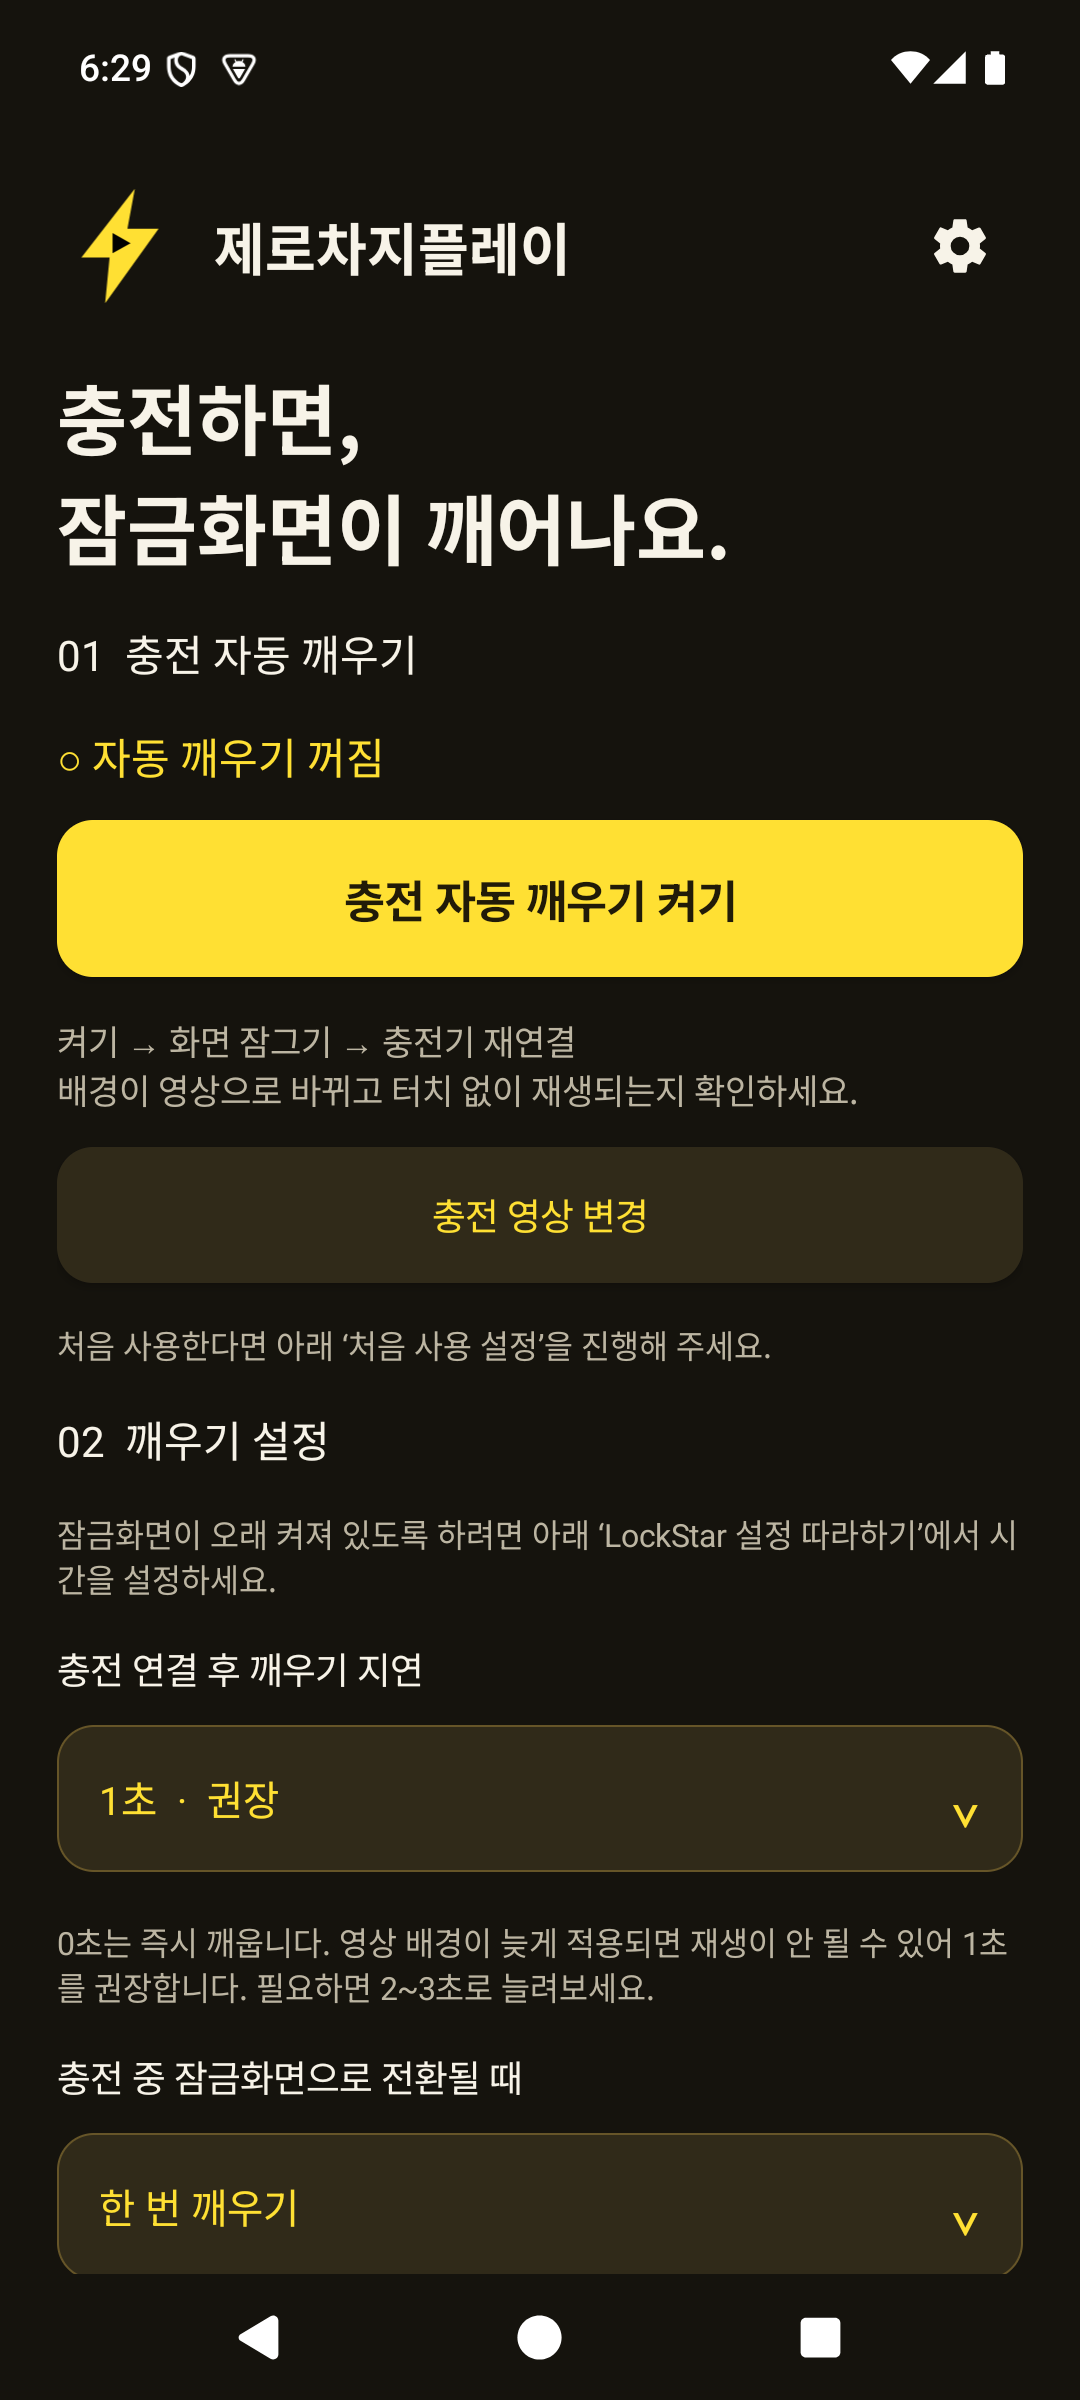
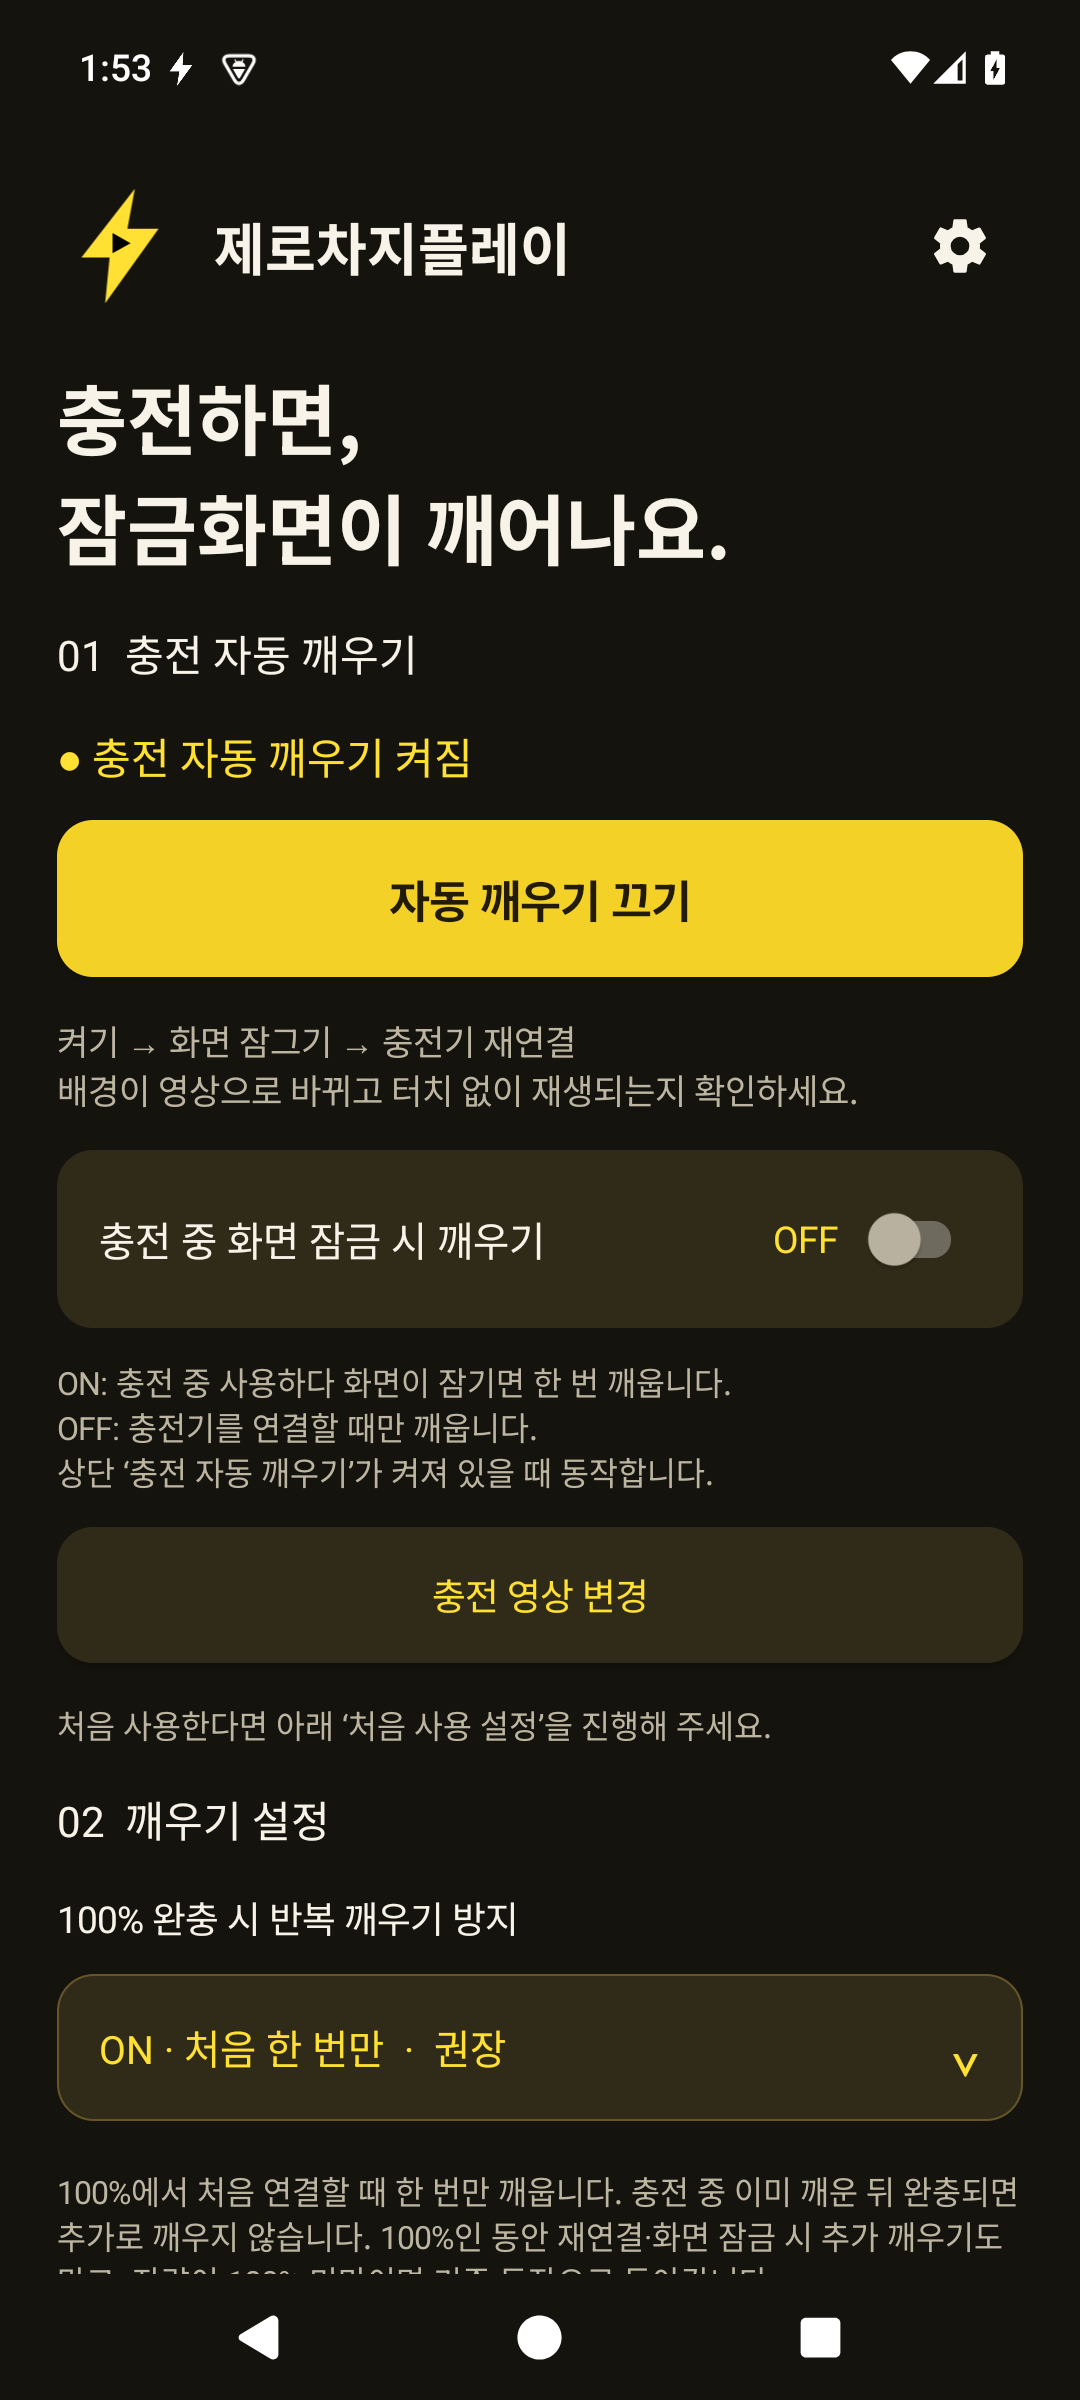
Update v1.0.2 guide: prevent repeated wake at full charge

diff --git a/README.md b/README.md
@@ -4,14 +4,21 @@
 
 **충전하면 잠금화면이 깨어나고, 설정한 영상 배경이 재생됩니다.**
 
-[![Android APK 다운로드](https://img.shields.io/badge/Android_APK_다운로드-1.0.0-FFE033?style=for-the-badge&logo=android&logoColor=black)](https://github.com/ZERO-hms/zero-chargeplay/releases/download/v1.0.0/zero-chargeplay-1.0.0.apk)
+[![Android APK 다운로드](https://img.shields.io/badge/Android_APK_다운로드-1.0.2-FFE033?style=for-the-badge&logo=android&logoColor=black)](https://github.com/ZERO-hms/zero-chargeplay/releases/download/v1.0.2/zero-chargeplay-1.0.2.apk)
 
-### [⬇ 눌러서 앱 설치 파일 받기 (.apk)](https://github.com/ZERO-hms/zero-chargeplay/releases/download/v1.0.0/zero-chargeplay-1.0.0.apk)
+### [⬇ 눌러서 앱 설치 파일 받기 (.apk)](https://github.com/ZERO-hms/zero-chargeplay/releases/download/v1.0.2/zero-chargeplay-1.0.2.apk)
 
-**v1.0.0 정식 버전 · Android 12 이상 · 삼성 갤럭시용**  
-파일: `zero-chargeplay-1.0.0.apk` · GitHub 로그인 없이 다운로드
+**v1.0.2 정식 버전 · Android 12 이상 · 삼성 갤럭시용**  
+파일: `zero-chargeplay-1.0.2.apk` · GitHub 로그인 없이 다운로드
 
-[이번 버전 변경사항](https://github.com/ZERO-hms/zero-chargeplay/releases/tag/v1.0.0) · [설치·보안 안내](#설치-방법) · [검증 안내](VALIDATION.md)
+[이번 버전 변경사항](https://github.com/ZERO-hms/zero-chargeplay/releases/tag/v1.0.2) · [설치·보안 안내](#설치-방법) · [검증 안내](VALIDATION.md)
+
+## v1.0.2에서 달라진 점
+
+- **100% 완충 시 반복 깨우기 방지** 선택 옵션 추가 · 기본 ON
+- 처음 한 번 깨운 뒤에는 100% 상태의 반복 재연결·잠금 전환 깨우기를 막고, 잔량이 100% 미만이면 기존 동작으로 복귀
+- 충전 중 폰이 잠길 때 깨우기를 상단의 별도 ON/OFF 스위치로 조절
+- 기존 지연 시간·테마·안내 진행 및 자동 깨우기 설정 유지
 
 ## 만든 이유
 
@@ -24,7 +31,7 @@
 ## 주요 기능
 
 - **충전 자동 깨우기** — 유선·무선 충전 연결을 감지해 기본 잠금화면을 깨웁니다. 사용 중이면 불필요한 깨우기를 생략합니다.
-- **충전 중 다시 잠글 때 한 번 깨우기** — 휴대폰 사용 후 잠금 버튼이나 자동 잠금으로 전환될 때 동작합니다. 잠금화면이 다시 꺼질 때는 반복하지 않습니다.
+- **충전 중 다시 잠글 때 한 번 깨우기** — 상단의 별도 ON/OFF 스위치로 조절합니다. 휴대폰 사용 후 잠금 버튼이나 자동 잠금으로 전환될 때 동작합니다. 잠금화면이 다시 꺼질 때는 반복하지 않습니다.
 - **지연 시간 조절** — 충전 연결은 0·1·2·3초(권장 1초), 잠금 전환은 0.5·1·2·3초(권장 0.5초). 실제 잠금화면 준비 시간은 기기 설정에 따라 추가될 수 있습니다.
 - **설정 따라하기** — 루틴·AOD·LockStar 및 충전 영상 교체를 단계별로 안내합니다. 안내창은 이동·접기가 가능하며, AOD 설정은 작은 화면(PiP)으로 안내합니다.
 - **세 가지 테마** — 라이트·다크·시스템 설정에 맞춤을 제공합니다.
@@ -32,6 +39,18 @@
 - **기존 설정 유지** — 앱을 삭제하지 않고 업데이트하면 지연 시간·테마·안내 진행 상태가 이어집니다. 켜둔 자동 깨우기는 재개하고, 꺼둔 상태는 유지합니다. 기기가 백그라운드 재개를 제한하면 앱을 한 번 열어 주세요.
 
 초기 베타의 별도 영상 플레이어·랜덤 재생·앱 내 영상 편집 기능은 정식 버전에 포함되지 않습니다. 현재 버전은 삼성 기본 잠금화면을 유지하는 방식입니다.
+
+## 완충 시 반복 재생 방지
+
+앱의 **02 깨우기 설정 → 100% 완충 시 반복 깨우기 방지 → ON · 처음 한 번만**을 선택하세요. 업데이트 후 기본값은 ON입니다.
+
+- **100%에서 처음 연결**하면 한 번 깨웁니다. 충전 중 이미 재생한 뒤 100%가 된 경우에는 추가로 깨우지 않습니다.
+- 이후 100%인 동안의 충전 재연결과 폰 잠금 시 추가 깨우기를 막습니다. 잠금 전환 스위치가 ON이어도 완충 제한이 우선합니다.
+- **잔량이 100% 미만으로 확인되면** 제한을 풀고, 다음 충전 연결·잠금 전환부터 기존 설정대로 동작합니다. 잔량이 내려간 순간에 영상을 강제로 재생하지는 않습니다.
+- **OFF · 기존 방식**을 선택하면 완충 제한 없이 기존대로 동작합니다. 켜짐/꺼짐을 바꾸거나 앱이 재시작돼도 100%에서 이미 깨운 기록을 기억합니다.
+- 짧은 충전 신호 끊김과 실제로 충전기에서 내려놓는 동작은 확실히 구분하기 어려워, 100%인 동안에는 다시 올려놓아도 추가로 깨우지 않습니다.
+
+이 옵션은 **제로차지플레이가 보내는 깨우기 신호만 제한**합니다. 삼성 루틴·휴대폰·충전기가 스스로 화면을 켜거나 배경을 바꾸는 동작까지 차단하지는 않습니다.
 
 ## 처음 사용하는 방법
 

diff --git a/VALIDATION.md b/VALIDATION.md
@@ -1,31 +1,22 @@
-# v1.0.0 검증 안내
+# v1.0.2 검증 안내
 
-2026-11-06 · Android 12 이상 대상 · Android 15(API 35) 에뮬레이터 검증
+2026-11-09 · Android 12 이상 대상 · Android 15(API 35) 에뮬레이터 검증
 
-## 확인한 항목
+- 정식 APK 빌드·Android lint·기존 배포와 동일한 서명 확인
+- 100% 첫 연결에서 한 번 깨우기, 이후 무선 충전 연결/해제 반복 차단
+- 충전 중/완충 상태 변경만으로 추가 깨우기를 하지 않는지 확인
+- 서비스 재시작 후 제한 상태 보존, USB/무선 충전 전환 및 100% 잠금 전환 제한
+- 99% 복귀 후 기존 깨우기, 99%에서 이미 깨운 뒤 100% 도달 시 추가 깨우기 차단
+- 실제 선택 메뉴의 OFF/ON, 설정 저장, 기존 잠금 전환 ON/OFF 및 반복 방지 회귀 검사
+- 정책 단위 검증: 취소된 깨우기, 잘못된 배터리 값, 표준 외 잔량 척도, 옵션 전환
 
-- 정식 APK 빌드, Android lint 검사, APK 서명 검증
-- 기존 배포 베타와 같은 패키지·서명, 증가한 내부 버전 번호로 덮어쓰기 설치
-- 이전 alpha.18에서 v1.0.0으로 실제 업데이트 후 지연 시간·잠금 전환 옵션·테마·안내 진행 및 완료 상태·업데이트 옵션 유지
-- 켜둔 자동 깨우기의 백그라운드 감지 서비스 재개, 꺼둔 상태 유지
-- 알림 권한 때문에 재개가 보류된 경우 켜짐 설정 보존, 권한 허용 후 앱을 열어 재개
-- 실제 GitHub 공개 API 연결, 새 정식 버전 판별, 같은/이전 버전 및 베타 제외
-- 새 버전 알림 중복 방지, 앱 아이콘 알림 숫자 비표시, 수동 확인·자동 확인 켜기/끄기
-- 공식 저장소 APK 주소 검증, 변경사항 표시, 다운로드 전 안내
-- 백그라운드 업데이트 확인 작업 실행 및 완료
+설정·서비스·화면 깨우기는 에뮬레이터에서 확인했습니다. 사용자가 보고한 실제 무선 충전기의 완충 반복 신호 및 모든 갤럭시/One UI 조합은 실기기 미확인입니다. 삼성 루틴·휴대폰 자체의 화면 켜짐은 이 앱에서 차단하지 않습니다.
 
-새 버전 발견·알림 테스트는 기기 내부의 가상 릴리스 정보로도 확인했습니다. 해당 가상 릴리스는 공개하거나 다운로드하지 않았습니다.
+## 설치 파일
 
-## 기기별 확인 범위
+- APK: `zero-chargeplay-1.0.2.apk`
[1 lines of base64/hex data omitted]
+- 동일 패키지 및 기존 서명을 유지하며 앱을 삭제하지 않고 덮어 설치합니다.
+- [설치·보안 안내](README.md#설치-방법) · 앱 안의 톱니바퀴 → 설치 · 보안 설정 안내
 
-이전 시제품의 충전 및 잠금 전환 동작은 사용자 실기기에서 작동 피드백을 받았습니다. 이번 설정 유지·업데이트 기능은 Android 15 에뮬레이터에서 검증했으며, 모든 갤럭시/One UI 조합에서 검증한 것은 아닙니다. 삼성 설정·LockStar·AOD 메뉴 및 실제 보안 차단 화면은 기종과 OS에 따라 다를 수 있습니다.
-
-잠금 전환의 0.5초는 앱이 추가하는 기본 대기 시간입니다. 휴대폰의 실제 잠금 처리 시간이 더 걸리면 영상 재생까지 더 늦어질 수 있습니다. 화면 유지 시간은 LockStar·휴대폰 설정을 따릅니다.
-
-## 공개 파일
-
-- 설치 파일: `zero-chargeplay-1.0.0.apk`
[2 lines of base64/hex data omitted]
-
-저장소와 자동 Source code ZIP/TAR는 사용 안내·앱 이미지 전용입니다. 앱 구현 코드나 서명 키는 포함하지 않습니다.
+공개 저장소와 자동 Source code ZIP/TAR에는 안내·앱 이미지만 포함하며 구현 코드와 서명 키는 포함하지 않습니다.
